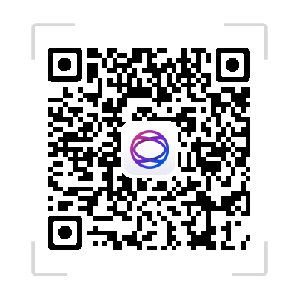
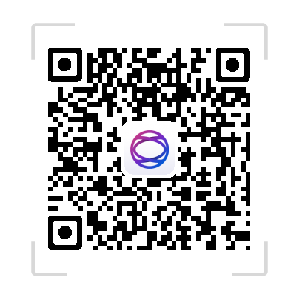
#DEVOPS-126

Changed region(s): [[0.15, 0.15, 0.84, 0.84]]

diff --git a/index.html b/index.html
@@ -60,11 +60,11 @@
     </div>
     <div class="row phone" style="text-align: center; padding-top: 3%;">
         <button class="btn btn btn-primary btn-download-android"
-                onclick="window.location.href='https://bianjie.ai/rainbow/${env}/rainbow-latest.apk'">Android 下载
+                onclick="window.location.href='http://${env}.rainbowinstaller.cn/download/rainbow-latest.apk'">Android 下载
         </button>
         <div style="padding-top: 3%">
             <button class="btn btn btn-primary btn-download-ios"
-                    onclick="window.location.href='itms-services://?action=download-manifest&url=https://bianjie.ai/rainbow/${env}/rainbow.plist'">
+                    onclick="window.location.href='itms-services://?action=download-manifest&url=http://${env}.rainbowinstaller.cn/download/rainbow.plist'">
                 iOS 下载
             </button>
         </div>
